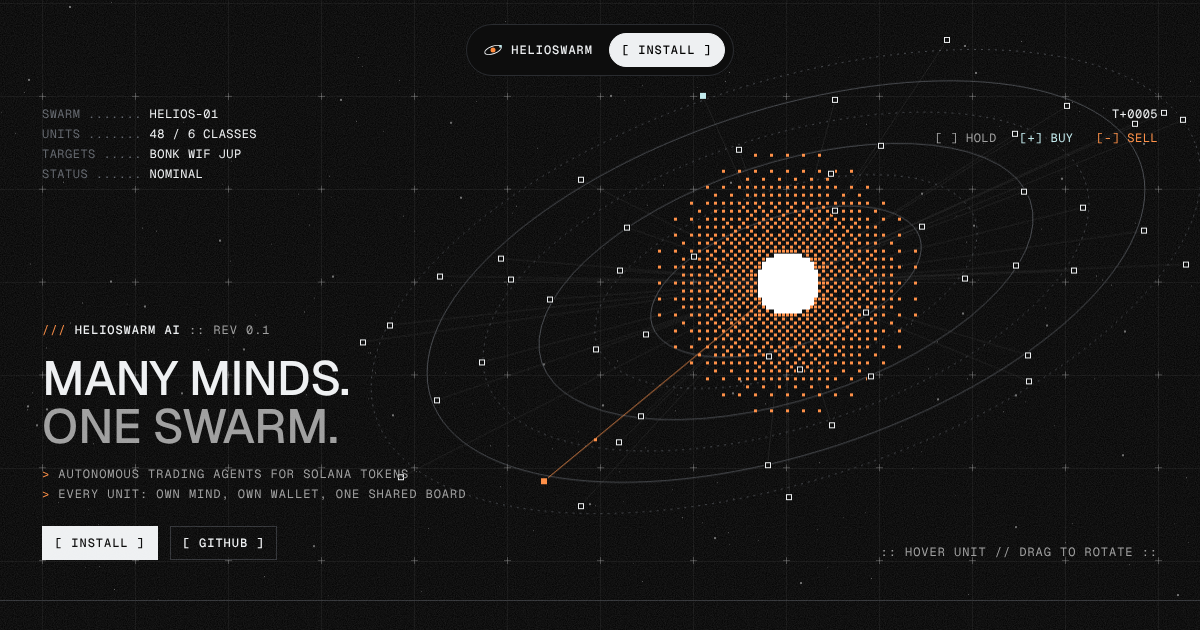
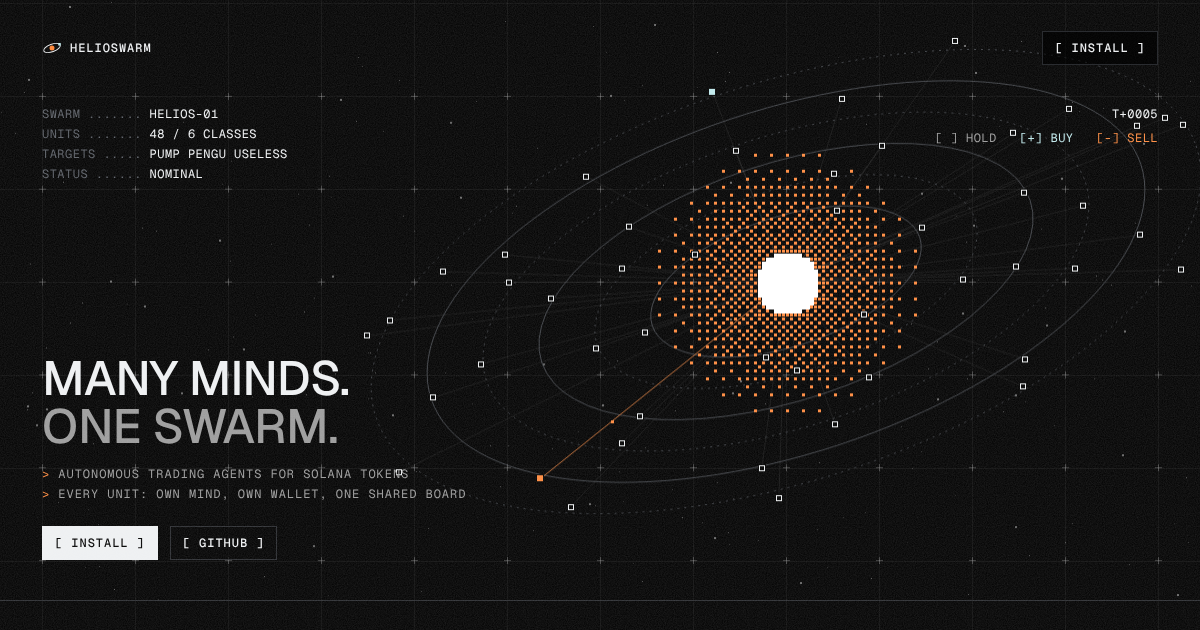
Strip the nav, swap the plate for a Europa map, update targets
Brand sits top left and Install top right with no container. The eyebrow
line and the hover hint are gone. The plate is now an inverted Europa
surface map, and targets read PUMP, PENGU, USELESS.

Claude-Session: https://claude.ai/code/session_016uYC2qqY9WbddzSV8ZiCbj

diff --git a/site/index.html b/site/index.html
@@ -79,16 +79,10 @@ p { text-wrap: pretty; }
 
 /* nav island */
 .nav {
-  position: fixed; z-index: 50; left: 0; right: 0;
-  top: calc(env(safe-area-inset-top, 0px) + 24px);
-  display: flex; justify-content: center; pointer-events: none;
-  padding-inline: max(16px, env(safe-area-inset-left, 0px)) max(16px, env(safe-area-inset-right, 0px));
-}
-.island {
-  pointer-events: auto; display: flex; align-items: center; gap: 16px;
-  padding: 8px 8px 8px 16px; border-radius: 9999px;
-  background: rgba(12, 12, 13, 0.72); border: 1px solid var(--line);
-  -webkit-backdrop-filter: blur(16px); backdrop-filter: blur(16px);
+  position: absolute; z-index: 50; left: 0; right: 0; top: 0; height: var(--top);
+  display: flex; justify-content: space-between; align-items: center;
+  padding-left: max(var(--padl), env(safe-area-inset-left, 0px));
+  padding-right: max(var(--padr), env(safe-area-inset-right, 0px));
 }
 .brand { display: flex; align-items: center; gap: 8px; text-decoration: none; font-family: var(--mono); font-weight: 500; font-size: 12px; line-height: 16px; letter-spacing: 0.08em; text-transform: uppercase; }
 .brand svg { display: block; }
@@ -105,7 +99,6 @@ p { text-wrap: pretty; }
 .btn.ghost:hover { border-color: var(--fg); background: rgba(0, 0, 0, 0.6); }
 .btn { gap: 0; }
 .btn::before { content: "[ "; white-space: pre; } .btn::after { content: " ]"; white-space: pre; }
-.btn.sm { border-radius: 9999px; }
 
 /* hero: the whole viewport is the swarm; type sits in the corners */
 .hero { position: relative; overflow: hidden; min-height: 100vh; min-height: 100svh; display: flex; border-bottom: 1px solid var(--line); }
@@ -130,14 +123,12 @@ p { text-wrap: pretty; }
 .brief li { padding-left: 2ch; text-indent: -2ch; }
 .brief li::before { content: "> "; white-space: pre; color: var(--sun); }
 .cta-row { display: flex; flex-wrap: wrap; gap: 12px; margin-top: 8px; }
-.hint { display: none; grid-row: 3; grid-column: 2; align-self: end; text-align: right; }
 @media (min-width: 768px) {
   .legend { display: block; }
   .hero h1 { font-size: 36px; line-height: 40px; }
 }
 @media (min-width: 1024px) {
   .hero-copy { grid-column: 1; }
-  .hint { display: block; }
   .hero h1 { font-size: 48px; line-height: 1; }
 }
 
@@ -169,7 +160,7 @@ h2 { display: flex; align-items: center; gap: 12px; margin: 0 0 24px; font-famil
 h2::before { content: "//"; color: var(--sun); }
 h2::after { content: ""; flex: 1; height: 1px; background: var(--line); }
 .plate { position: relative; margin: 0 0 var(--g); }
-.plate img { display: block; width: 100%; height: calc(var(--g) * 3); object-fit: cover; object-position: 50% 0; filter: contrast(1.05) brightness(0.9); }
+.plate img { display: block; width: 100%; height: calc(var(--g) * 3); object-fit: cover; }
 .plate figcaption { position: absolute; left: 12px; top: 12px; color: var(--fg); }
 @media (min-width: 768px) { .plate img { height: calc(var(--g) * 4); } .plate figcaption { left: 16px; top: 16px; } }
 .run-grid { display: grid; gap: var(--g) 0; }
@@ -212,13 +203,11 @@ footer { padding-block: 40px; border-top: 1px solid var(--line); }
 <a class="skip" href="#install">Skip to install</a>
 
 <header class="nav">
-  <div class="island">
-    <a class="brand" href="#top" aria-label="Helioswarm AI, back to top">
-      <svg width="20" height="20" viewBox="0 0 32 32" aria-hidden="true"><ellipse cx="16" cy="16" rx="14" ry="6" transform="rotate(-20 16 16)" fill="none" stroke="#EEF0F2" stroke-width="1.5"/><circle cx="16" cy="16" r="4" fill="#FF8A3D"/><rect x="26" y="8" width="4" height="4" fill="#BFE9EC"/></svg>
-      Helioswarm
-    </a>
-    <a class="btn sm" href="#install">Install</a>
-  </div>
+  <a class="brand" href="#top" aria-label="Helioswarm AI">
+    <svg width="20" height="20" viewBox="0 0 32 32" aria-hidden="true"><ellipse cx="16" cy="16" rx="14" ry="6" transform="rotate(-20 16 16)" fill="none" stroke="#EEF0F2" stroke-width="1.5"/><circle cx="16" cy="16" r="4" fill="#FF8A3D"/><rect x="26" y="8" width="4" height="4" fill="#BFE9EC"/></svg>
+    Helioswarm
+  </a>
+  <a class="btn ghost" href="#install">Install</a>
 </header>
 
 <main id="main">
@@ -228,14 +217,13 @@ footer { padding-block: 40px; border-top: 1px solid var(--line); }
   <div class="overlay">
     <pre class="meta">SWARM ....... <b>HELIOS-01</b>
 UNITS ....... <b>48 / 6 CLASSES</b>
-TARGETS ..... <b>BONK WIF JUP</b>
+TARGETS ..... <b>PUMP PENGU USELESS</b>
 STATUS ...... <b id="status">NOMINAL</b></pre>
     <div class="clock">
       <strong id="tick">T+0000</strong>
       <span class="legend" aria-hidden="true">[ ] HOLD   <span class="ice">[+] BUY</span>   <span class="sun">[-] SELL</span></span>
     </div>
     <div class="hero-copy">
-      <p class="label"><span class="sun">///</span> <b>Helioswarm AI</b> :: rev 0.1</p>
       <h1>Many minds.<span>One swarm.</span></h1>
       <ul class="brief">
         <li>Autonomous trading agents for Solana tokens</li>
@@ -246,15 +234,14 @@ STATUS ...... <b id="status">NOMINAL</b></pre>
         <a class="btn ghost" href="https://github.com/helioswarmai/helioswarm" rel="noopener">GitHub</a>
       </div>
     </div>
-    <p class="hint label" aria-hidden="true">:: Hover unit // drag to rotate ::</p>
   </div>
 </div>
 
 <section id="install">
   <div class="wrap">
     <figure class="plate rv">
-      <img src="img/lunar-terrain.jpg" width="2000" height="857" alt="Black and white photograph of the cratered lunar surface running to a curved horizon" loading="lazy">
-      <figcaption class="label">Plate 01 // lunar surface // NASA</figcaption>
+      <img src="img/europa.jpg" width="2000" height="571" alt="Inverted surface map of Europa: a dense web of bright lines crossing a black field" loading="lazy">
+      <figcaption class="label">Plate 01 // Europa surface map // NASA</figcaption>
     </figure>
     <div class="run-grid rv">
       <div>
@@ -306,7 +293,7 @@ STATUS ...... <b id="status">NOMINAL</b></pre>
     { id: "momentum", code: "MOM", name: "Momentum", n: 10, t: { risk: 170, patience: 90, contrarian: 30, paranoia: 130 } },
     { id: "sniper", code: "SNP", name: "Sniper", n: 12, t: { risk: 190, patience: 25, contrarian: 90, paranoia: 200 } }
   ];
-  var TRAITS = ["risk", "patience", "contrarian", "paranoia"], TOKENS = ["BONK", "WIF", "JUP"];
+  var TRAITS = ["risk", "patience", "contrarian", "paranoia"], TOKENS = ["PUMP", "PENGU", "USELESS"];
 
   function bar(v, hot) {
     var on = Math.round(v / 255 * 16), s = '<span class="bar' + (hot ? " hot" : "") + '">';
